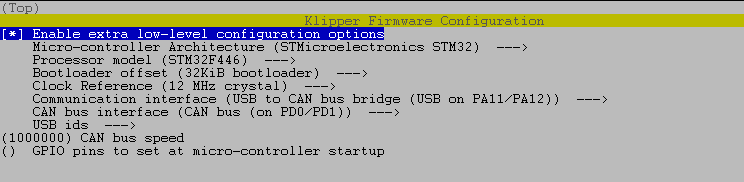
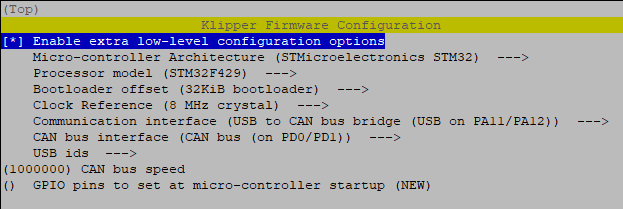
Update to reflect new Katapult bootloader

Changed region(s): [[0.0, 0.0, 1.0, 0.9341], [0.549, 0.4121, 0.61, 0.4396], [0.427, 0.3297, 0.488, 0.3571]]

diff --git a/README.md b/README.md
@@ -9,6 +9,10 @@ The content of this guide is based on information gathered from different source
 - TeamFDM guide: [How to Use CAN Toolhead Boards Connected Directly to Octopus / Octopus Pro on CanBoot](https://www.teamfdm.com/forums/topic/672-how-to-use-can-toolhead-boards-connected-directly-to-octopus-octopus-pro-on-canboot/)
 - TeamFDM toppic: [install canboot on sb2040](https://www.teamfdm.com/forums/topic/851-install-canboot-on-sb2040/)
 
+For the move to Katapult instead of Canboot, this was used:
+- https://www.teamfdm.com/forums/topic/2140-klipper-update-v0110-266-g261efdd8-and-octopus-canbus-sb2040-latest-aug-2023-update/
+- https://github.com/Arksine/katapult
+
 ## Used hardware
 - Raspberry Pi 4 with 32GB SD card.
 - Bigtreetech Octopus Pro v1.0 with F429 chip
@@ -70,29 +74,29 @@ sudo apt install python3-numpy python3-matplotlib!
 Enable Linux SPI driver on Rasbberry Pi, run `sudo raspi-config!` and under **Interface options** select **SPI** and then **Enable**, Save and exit.
 Details on configuring the printer.cfg, refer to the [Klipper documentation](https://www.klipper3d.org/Measuring_Resonances.html#software-installation).
 
-## CanBoot firmware
-To utilize CanBoot, we need to add CanBoot firmware on the Octopus board adn the SB2040 board.
+## Katapult (CanBoot) firmware
+To utilize Katapult (previously CanBoot), we need to add Katapult firmware on the Octopus board and the SB2040 board.
 
 ### Clone repo
-First we clone the CanBoot repository
+First we clone the Katapult repository
 ```
 sudo su pi
 cd ~
-git clone https://github.com/Arksine/CanBoot
+git clone https://github.com/Arksine/Katapult
 ```
 
-### CanBoot for octopus Pro
+### Katapult for octopus Pro
 
 We will configure the firmware for the Octopus pro first
 ```
-cd ~/CanBoot
+cd ~/Kataput
 make menuconfig
 ```
-![canboot firmware](images/octopus_F429_canboot_firmware_config.png)
+![katapult firmware](images/octopus_F429_katapult_firmware_config.png)
 
 > For F446 processor => `STM32F446` and `12 Mhz` 
 
-> For F429 processor => `STM32F429` and `8 Mhz`
+> For F429 processor => `STM32F429` and `8 Mhz` (this is the board I have.)
 
 And compile it
 ```
@@ -101,14 +105,14 @@ make
 
 ```
 mkdir ~/firmware
-mv ~/CanBoot/out/canboot.bin ~/firmware/octopus_1.1_canboot.bin
+mv ~/katapult/out/katapult.bin ~/firmware/octopus_1.1_katapult.bin
 ```
 
 #### Flashing the image
 This is where I ran into problems using Akhamars guide, as the F429 chip behaves differently. We can't flash in DFU mode from the Pi.
 To get arround this, we use the STM32CubeProgrammer from the PC.
 
-Copy the `~/firmware/octopus_1.1_canboot.bin` from Pi to local PC, using WinSCP or other tool.
+Copy the `~/firmware/octopus_1.1_katapult.bin` from Pi to local PC, using WinSCP or other tool.
 
 First we need to configure the Octopus for DFU mode.
 **Make sure the power is off to the Octopus board.**
@@ -132,7 +136,7 @@ You should now see a green "connected" message.
 
 7. Chip erase
 
-Go to the **Memory & ...** menu
+Go to the **Erasing & Programming** menu
 
 ![STM32_Erase](images/STM32_download_menu.png)
 
@@ -150,13 +154,13 @@ Go back to the **Memory & File edition** menu
 
 ![STM32_chiperEraseComplete](images/STM32_Write_firmware.png)
 
-   1. Select **Open file** tab, find the `octopus_1.1_canboot.bin` file you copied from the Pi.
+   1. Select **Open file** tab, find the `octopus_1.1_katapult.bin` file you copied from the Pi.
    2. Click the **Download** button
    3. Click **Disconnect**
 
 8. Power off the board, and remove the jumper from boot0 header.
 
-### CanBoot for SB2040
+### katapult for SB2040
 Set the sb2040 board to DFU. To do that, remove any power to the board, press the boot button while connecting the board to USB on the Pi.
 The board should now be in DFU.
 
@@ -166,10 +170,10 @@ To confirm, do a `lsusb` and note down the ID of the device.
 
 Configure the firmware
 ```
-cd ~/CanBoot
+cd ~/katapult
 make menuconfig
 ```
-![sb2040_can firmware](images/sb2040_canboot_firmware_config.png)
+![sb2040_can firmware](images/sb2040_katapult_firmware_config.png)
 
 And compile it
 ```
@@ -210,9 +214,9 @@ ls -al /dev/serial/by-id
 > Note the serial of the octopus Pro board
 
 ```
-cd ~/CanBoot/scripts
+cd ~/katapult/scripts
 pip3 install pyserial
-python3 flash_can.py -f ~/firmware/octopus_1.1_klipper.bin -d /dev/serial/by-id/usb-CanBoot_stm32f446xx_170038000650314D35323820-if00
+python3 flash_can.py -f ~/firmware/octopus_1.1_klipper.bin -d /dev/serial/by-id/usb-katapult_stm32f429xx_310052000750314B33323220-if00
 ```
 
 The board should now be flashed with a klipper can bridge.
@@ -225,7 +229,7 @@ Create a new file using nano
 sudo nano /etc/network/interfaces.d/can0
 ```
 
-paste the followiogn content
+paste the following content
 ```
 allow-hotplug can0
 iface can0 can static
@@ -272,7 +276,7 @@ Now we should be able to install Klipper on the SB2040 using the can interface
 cd ~/klipper
 make menuconfig
 ```
-![coonboot firmware](images/sb2040_klipper_firmware_config.png)
+![sb240 klipper firmware](images/sb2040_klipper_firmware_config.png)
 
 And compile it
 ```
@@ -287,15 +291,15 @@ mv ~/klipper/out/klipper.bin ~/firmware/sb2040_1.0_klipper.bin
 
 First we need to find the UUID of the SB2040
 ```
-cd ~/CanBoot/scripts
+cd ~/katapult/scripts
 python3 flash_can.py -i can0 -q
 ```
-Should give two devices, one is the Octopus (the one already running klipper), the one we need is the one running **CanBoot**
+Should give two devices, one is the Octopus (the one already running klipper), the one we need is the one running **katapult**
 ```
 Resetting all bootloader node IDs...
-Checking for canboot nodes...
+Checking for katapult nodes...
 Detected UUID: 6881ae241426, Application: Klipper
-Detected UUID: 812c57297b3a, Application: CanBoot
+Detected UUID: 812c57297b3a, Application: katapult
 Query Complete
 ```
 
@@ -303,19 +307,25 @@ Query Complete
 >
 > To differentiate which uuid correspond to which board, you can unplug the SB2040, that leaves you with just the Octopus bard.
 
+**Note:** If the boards have previously been configured in klipper with their UUIDs, they will not show up if Klipper is already flashed to the device.
+
 Replace the **<SERIAL_UUID>** with the serial found i above query.
 ```
 python3 flash_can.py -i can0 -u <SERIAL_UUID> -f ~/firmware/sb2040_1.0_klipper.bin
+python3 flash_can.py -i can0 -u 812c57297b3a -f ~/firmware/sb2040_1.0_klipper.bin
+812c57297b3a
 ```
 
 The board should now be flashed with klipper can.
 
-## Add CanBoot to Moonraker's update manager (optional):
+Reboot the Pi
+
+## Add katapult to Moonraker's update manager (optional):
 ```
-[update_manager CanBoot]
+[update_manager katapult]
 type: git_repo
-path: /home/pi/CanBoot
-origin: https://github.com/Arksine/CanBoot.git
+path: /home/pi/katapult
+origin: https://github.com/Arksine/katapult.git
 ```
 This will just keep the cloned repo updated - it won't automatically flash new bootloader versions.
 
